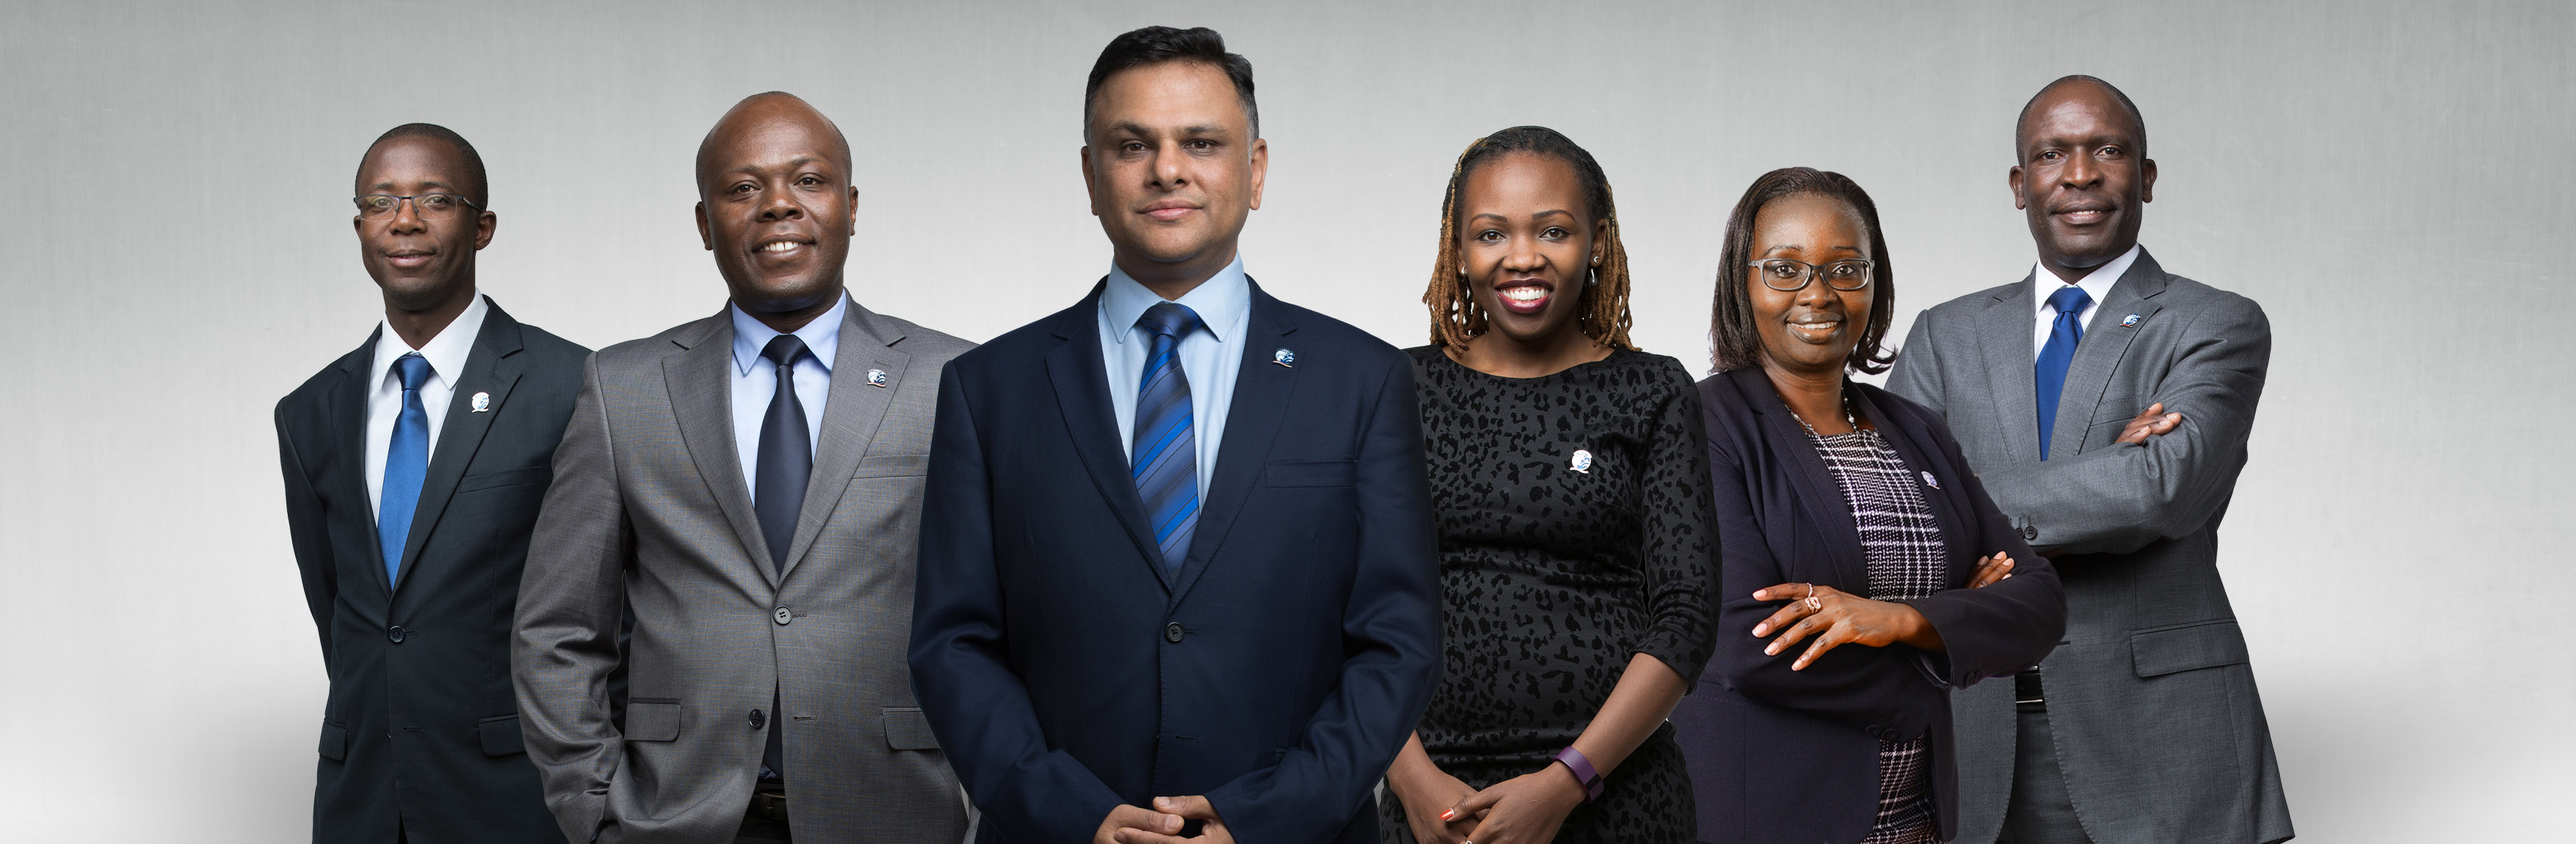
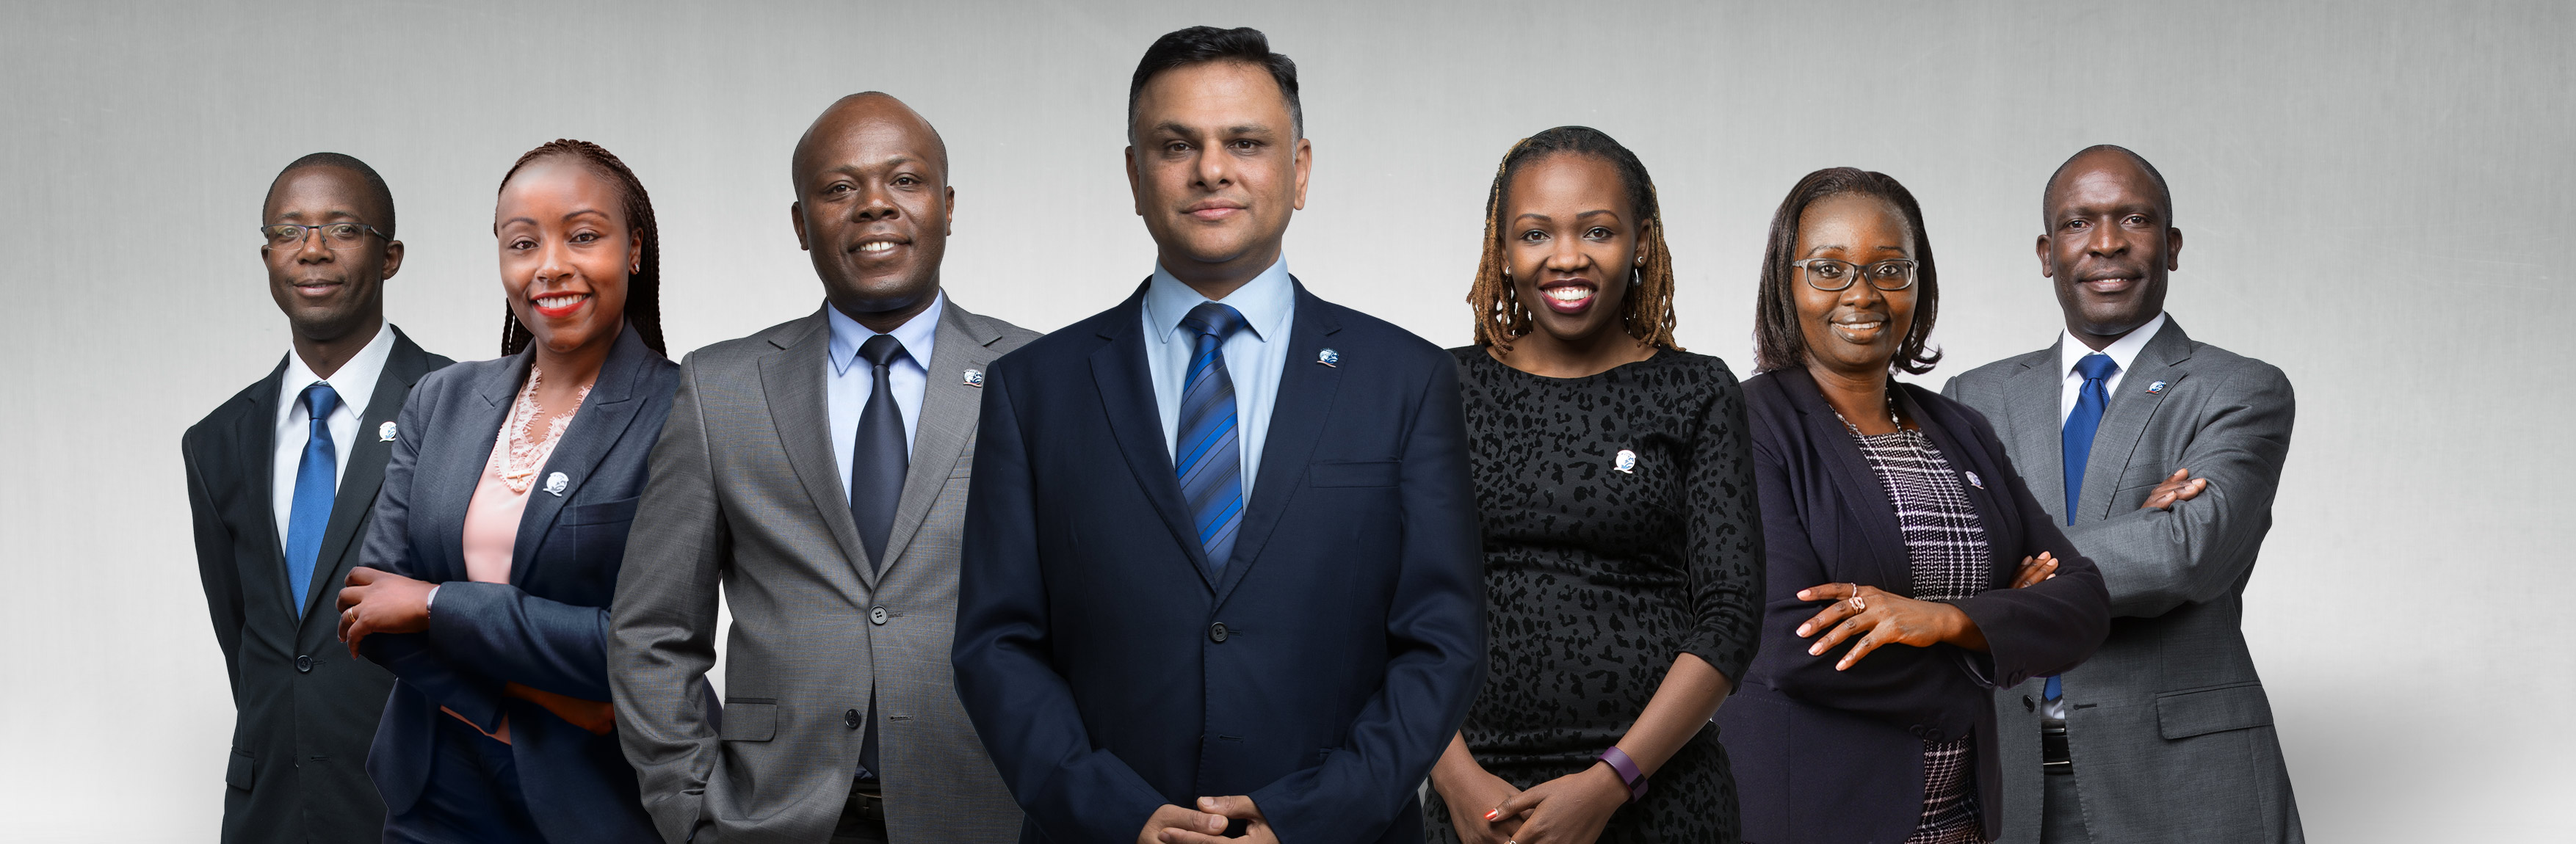
grace image update

diff --git a/management_group.php b/management_group.php
@@ -400,7 +400,7 @@
         <div class="uk-modal-dialog">
             <button class="uk-modal-close-full uk-close-large" type="button" uk-close></button>
             <div class="uk-grid-collapse uk-child-width-1-2@s uk-flex-middle" uk-grid>
-                <div class="uk-background-cover" style="background-image: url('img/managment/grace.jpg');" uk-height-viewport></div>
+                <div class="uk-background-cover" style="background-image: url('img/managment/grace_full.jpg');" uk-height-viewport></div>
                 <div class="uk-padding-large">
                     <h1> 
                         Grace Nganga

diff --git a/companies.php b/companies.php
@@ -6,7 +6,7 @@
     <meta charset="utf-8">
     <meta name="viewport" content="width=device-width, initial-scale=1, shrink-to-fit=no">
 
-    <title>Companies | APollo Group -  APA Insurance</title>
+    <title> Companies | APollo Group -  APA Insurance</title>
     <link rel="stylesheet" href="css/companies.css" media="screen">
 
     <?php include 'views/head_links.php'; ?>
